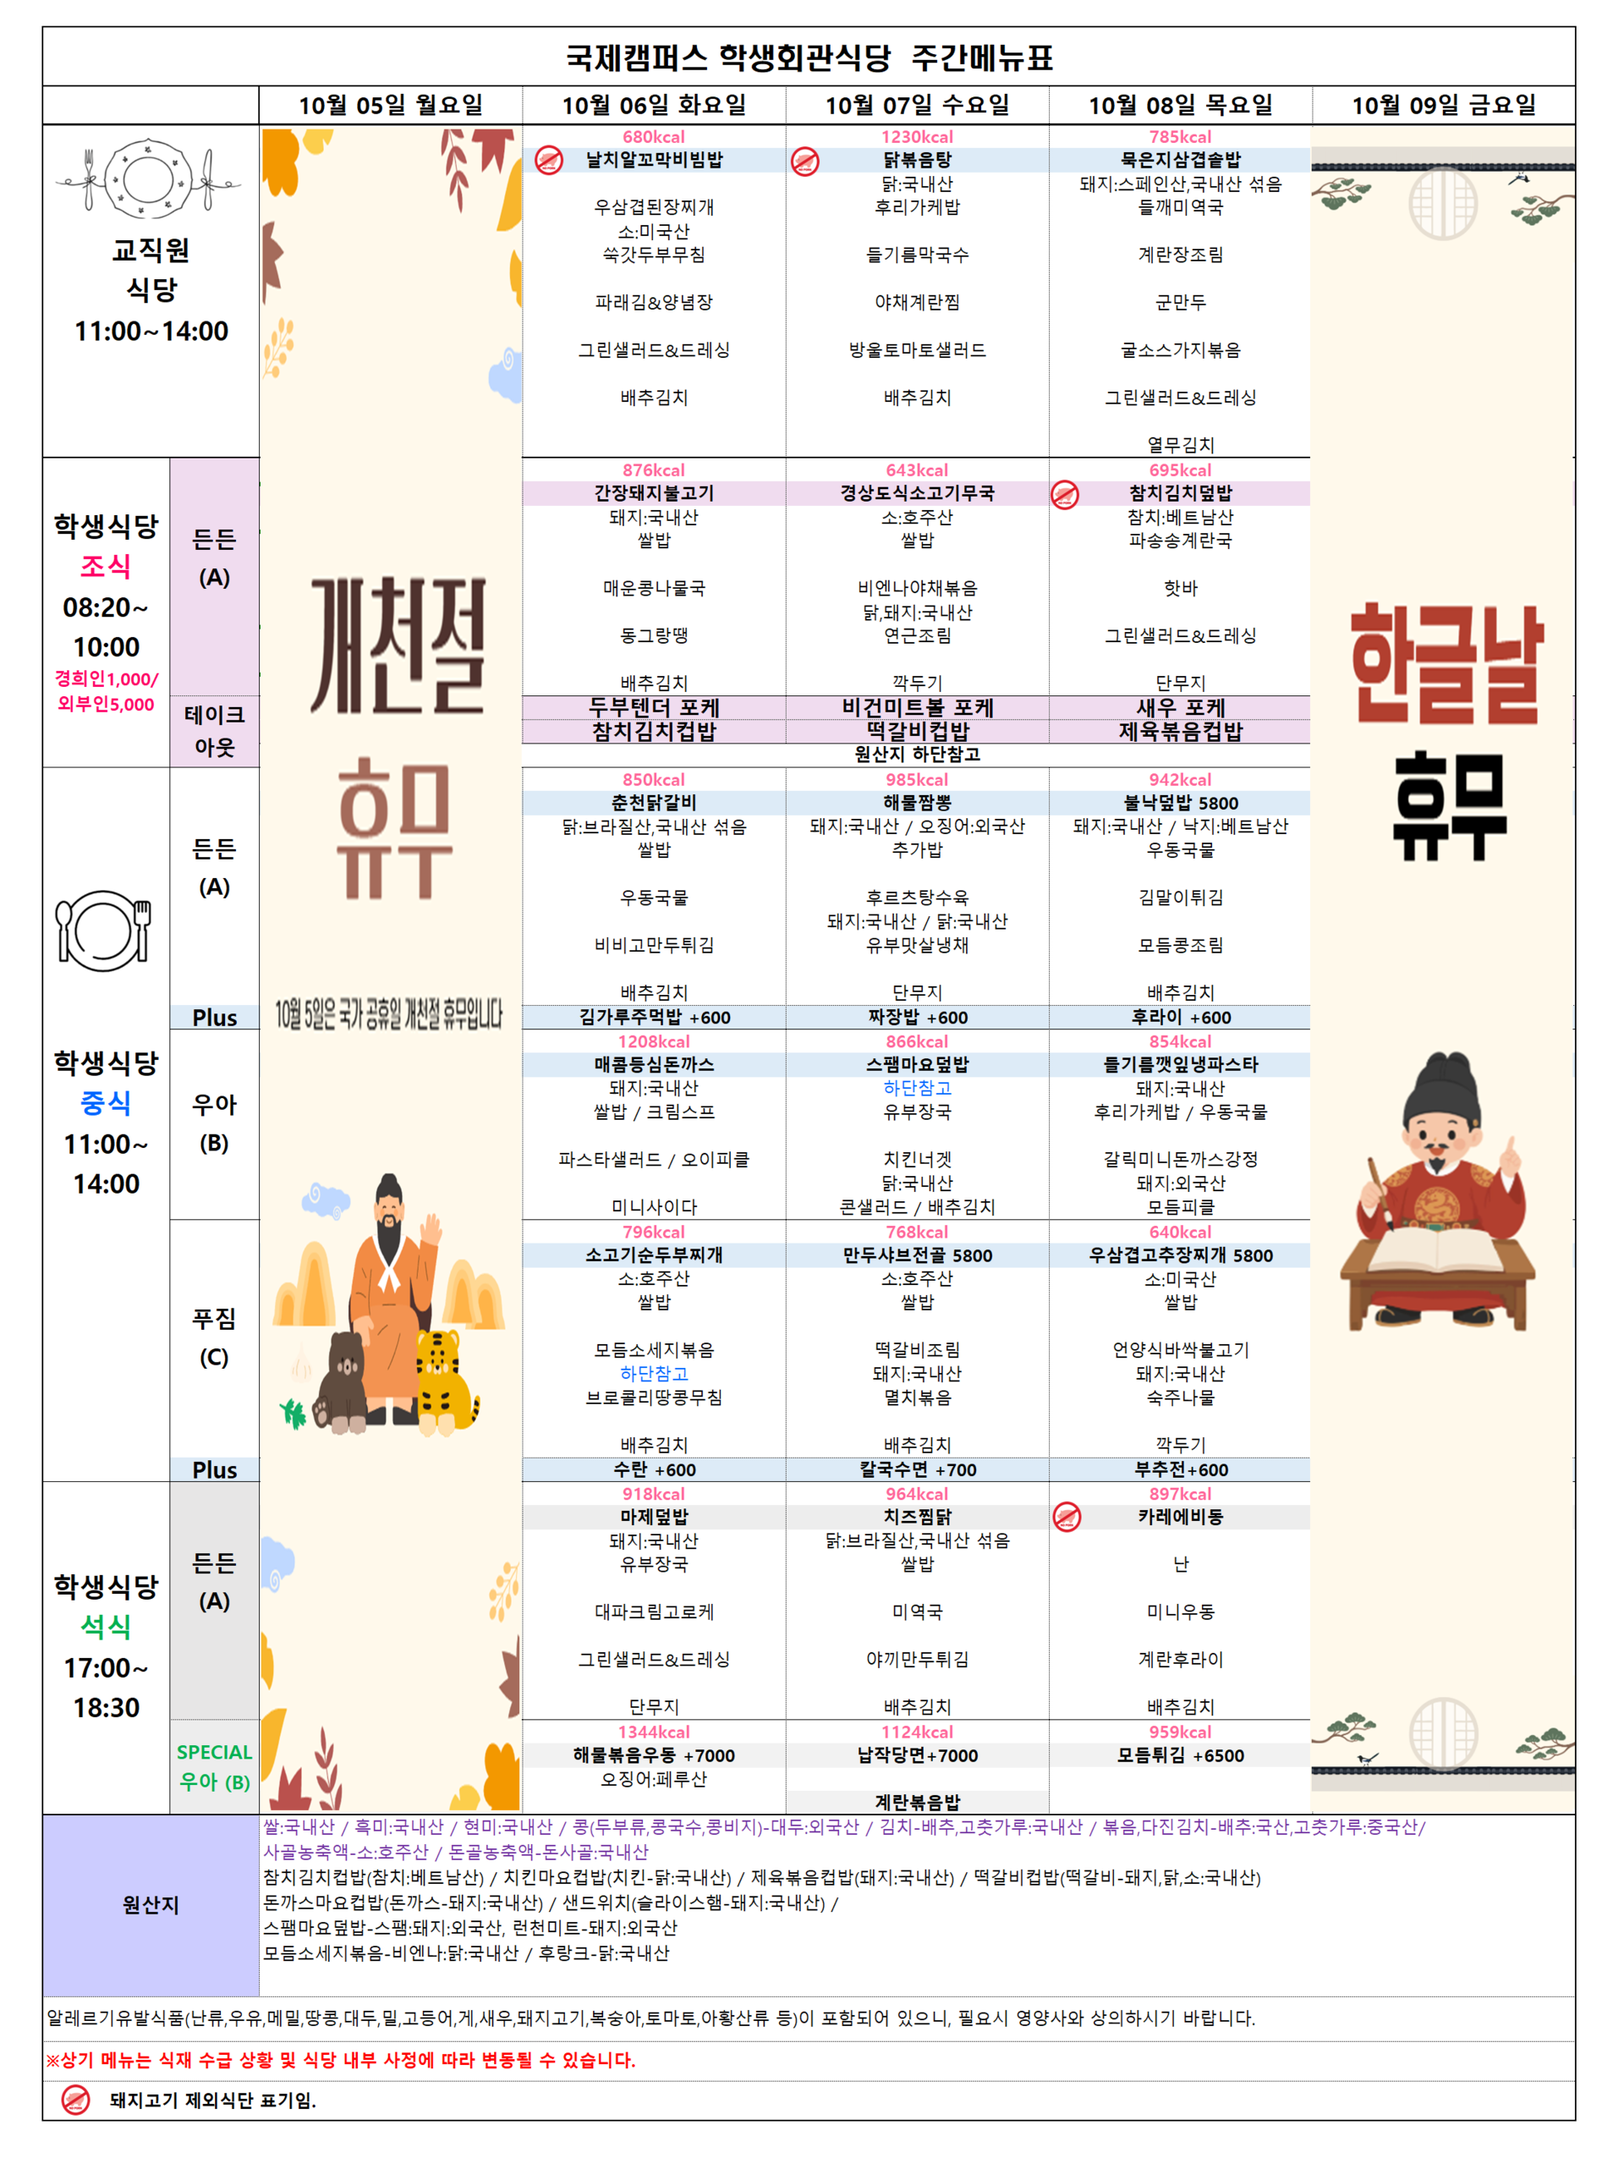
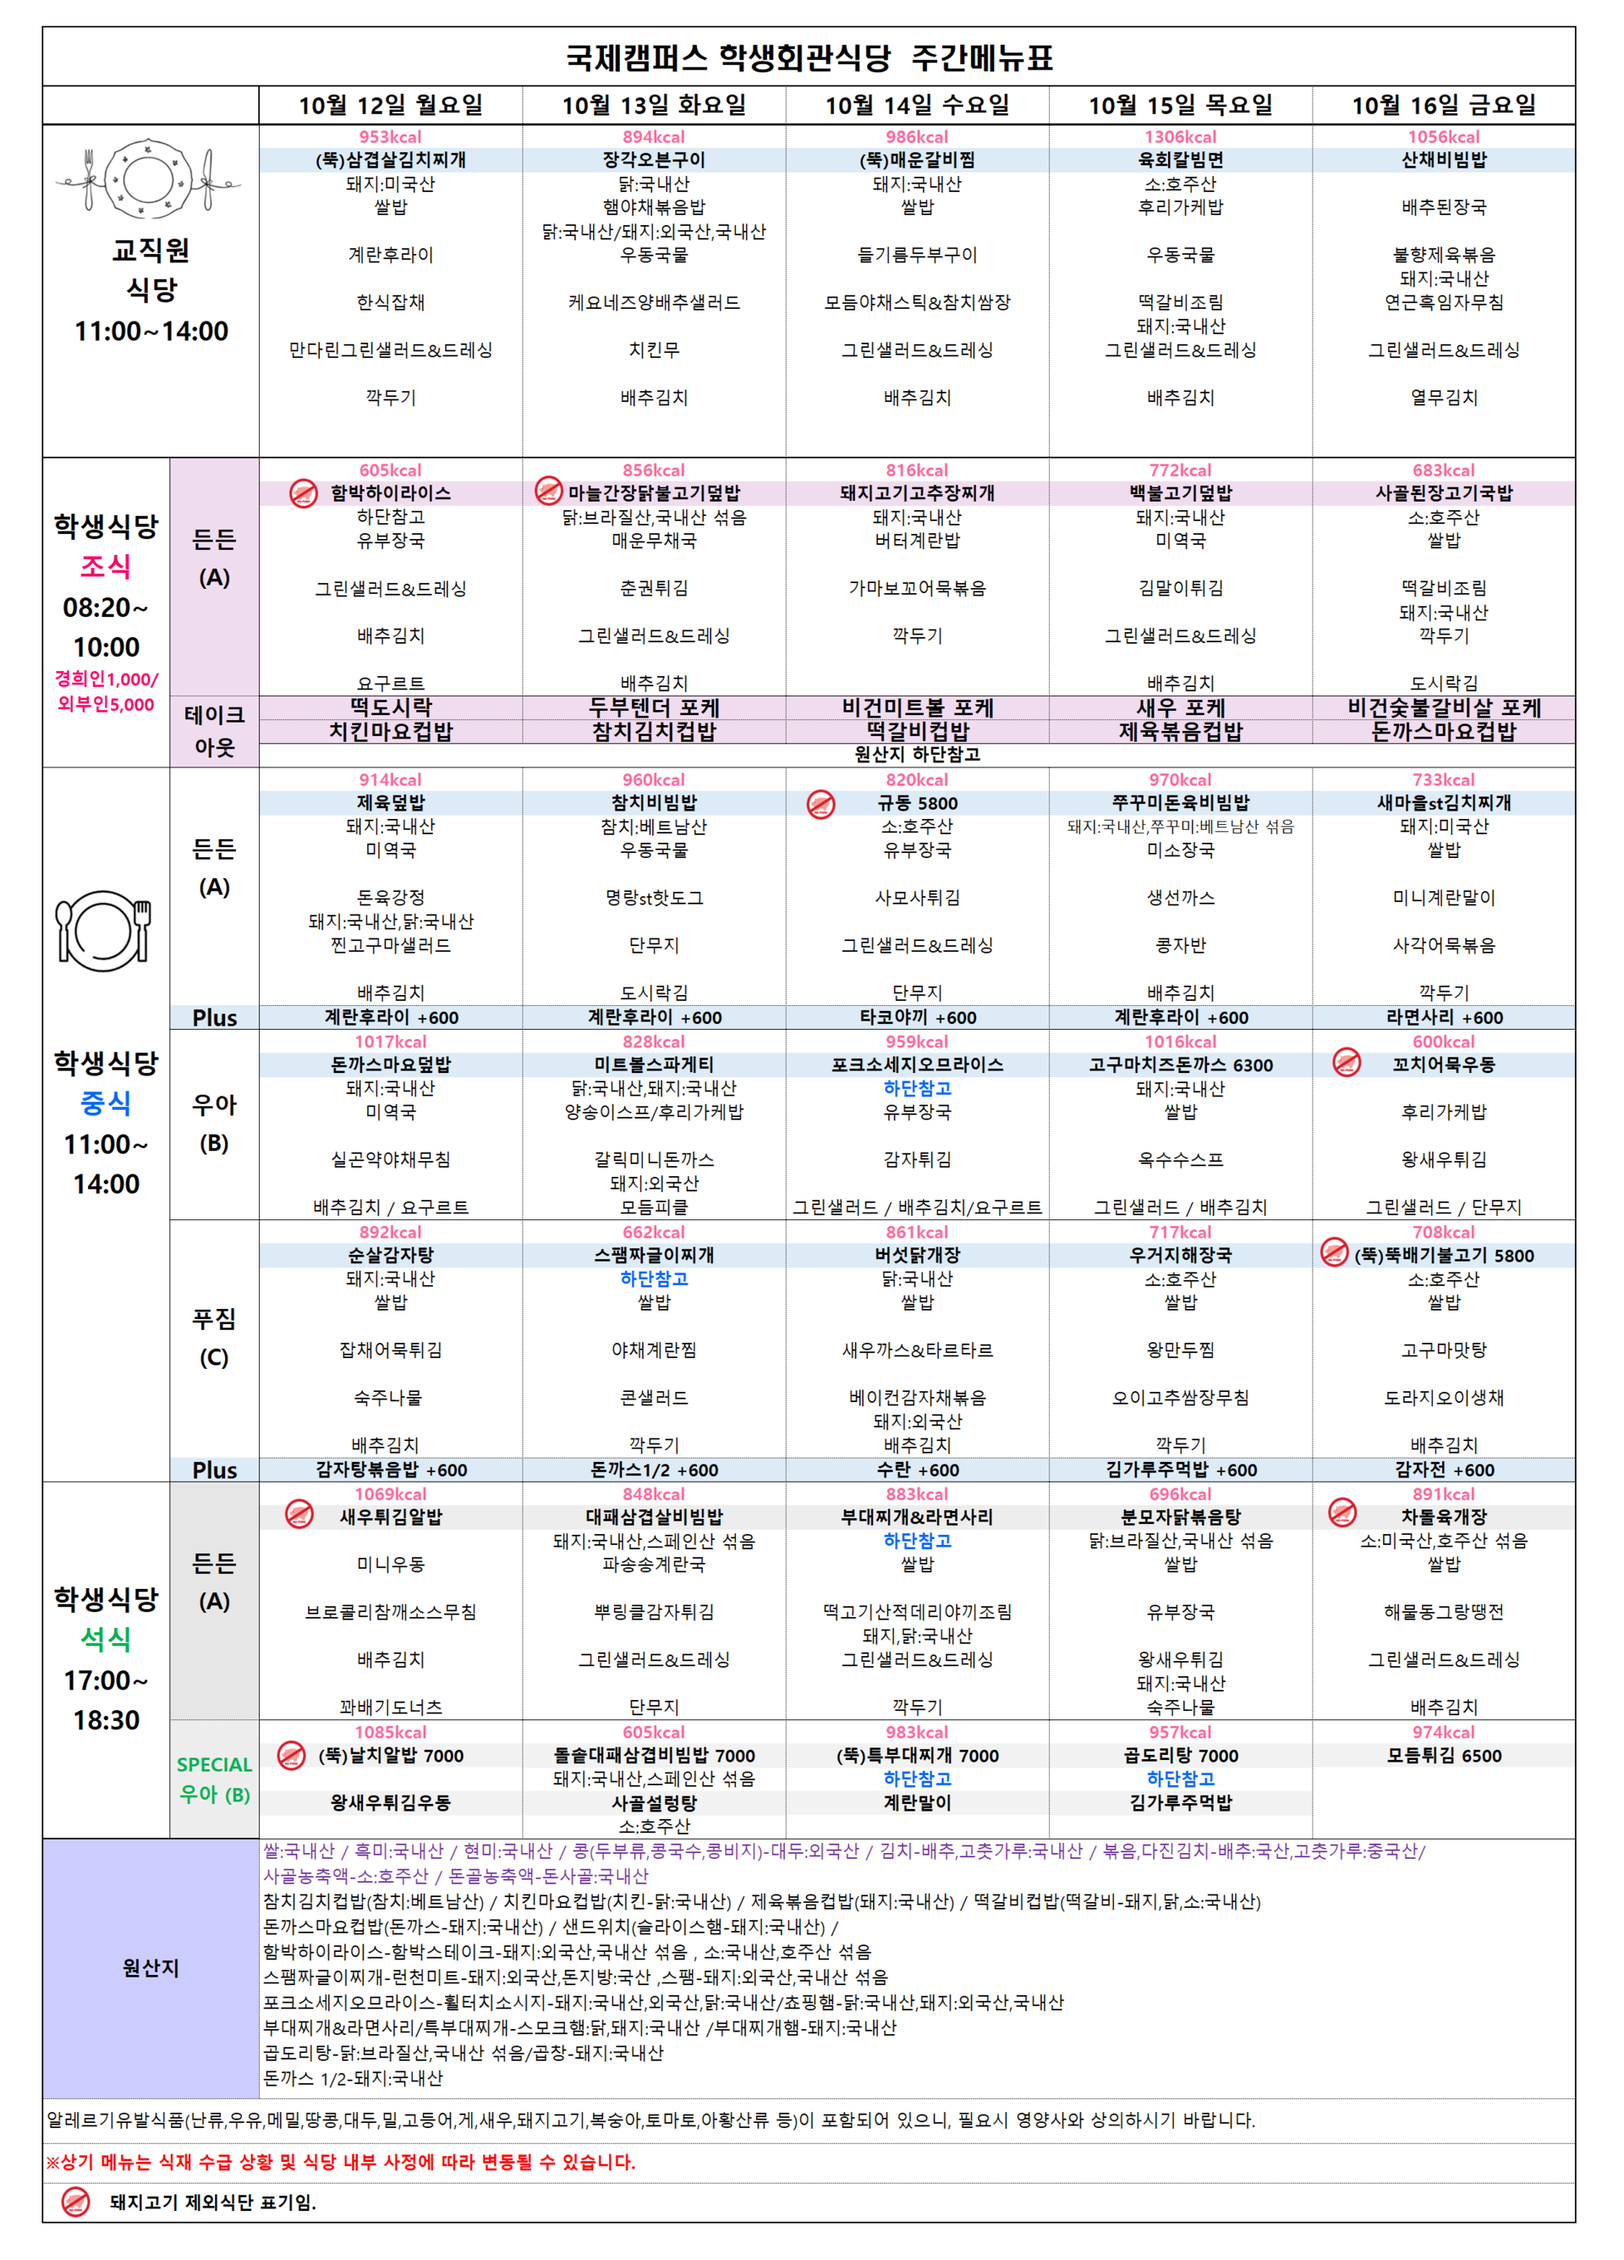
chore: publish verified student menus for October 12-16

Changed region(s): [[0.0, 0.0, 0.9688, 0.991]]

diff --git a/sw.js b/sw.js
@@ -1,4 +1,4 @@
-const CACHE = 'khu-meals-v9';
+const CACHE = 'khu-meals-v10';
 const ASSETS = ['./', './index.html', './manifest.webmanifest', './icon.svg'];
 self.addEventListener('install', event => event.waitUntil(caches.open(CACHE).then(cache => cache.addAll(ASSETS)).then(() => self.skipWaiting())));
 self.addEventListener('activate', event => event.waitUntil(caches.keys().then(keys => Promise.all(keys.filter(key => key !== CACHE).map(key => caches.delete(key)))).then(() => self.clients.claim())));
